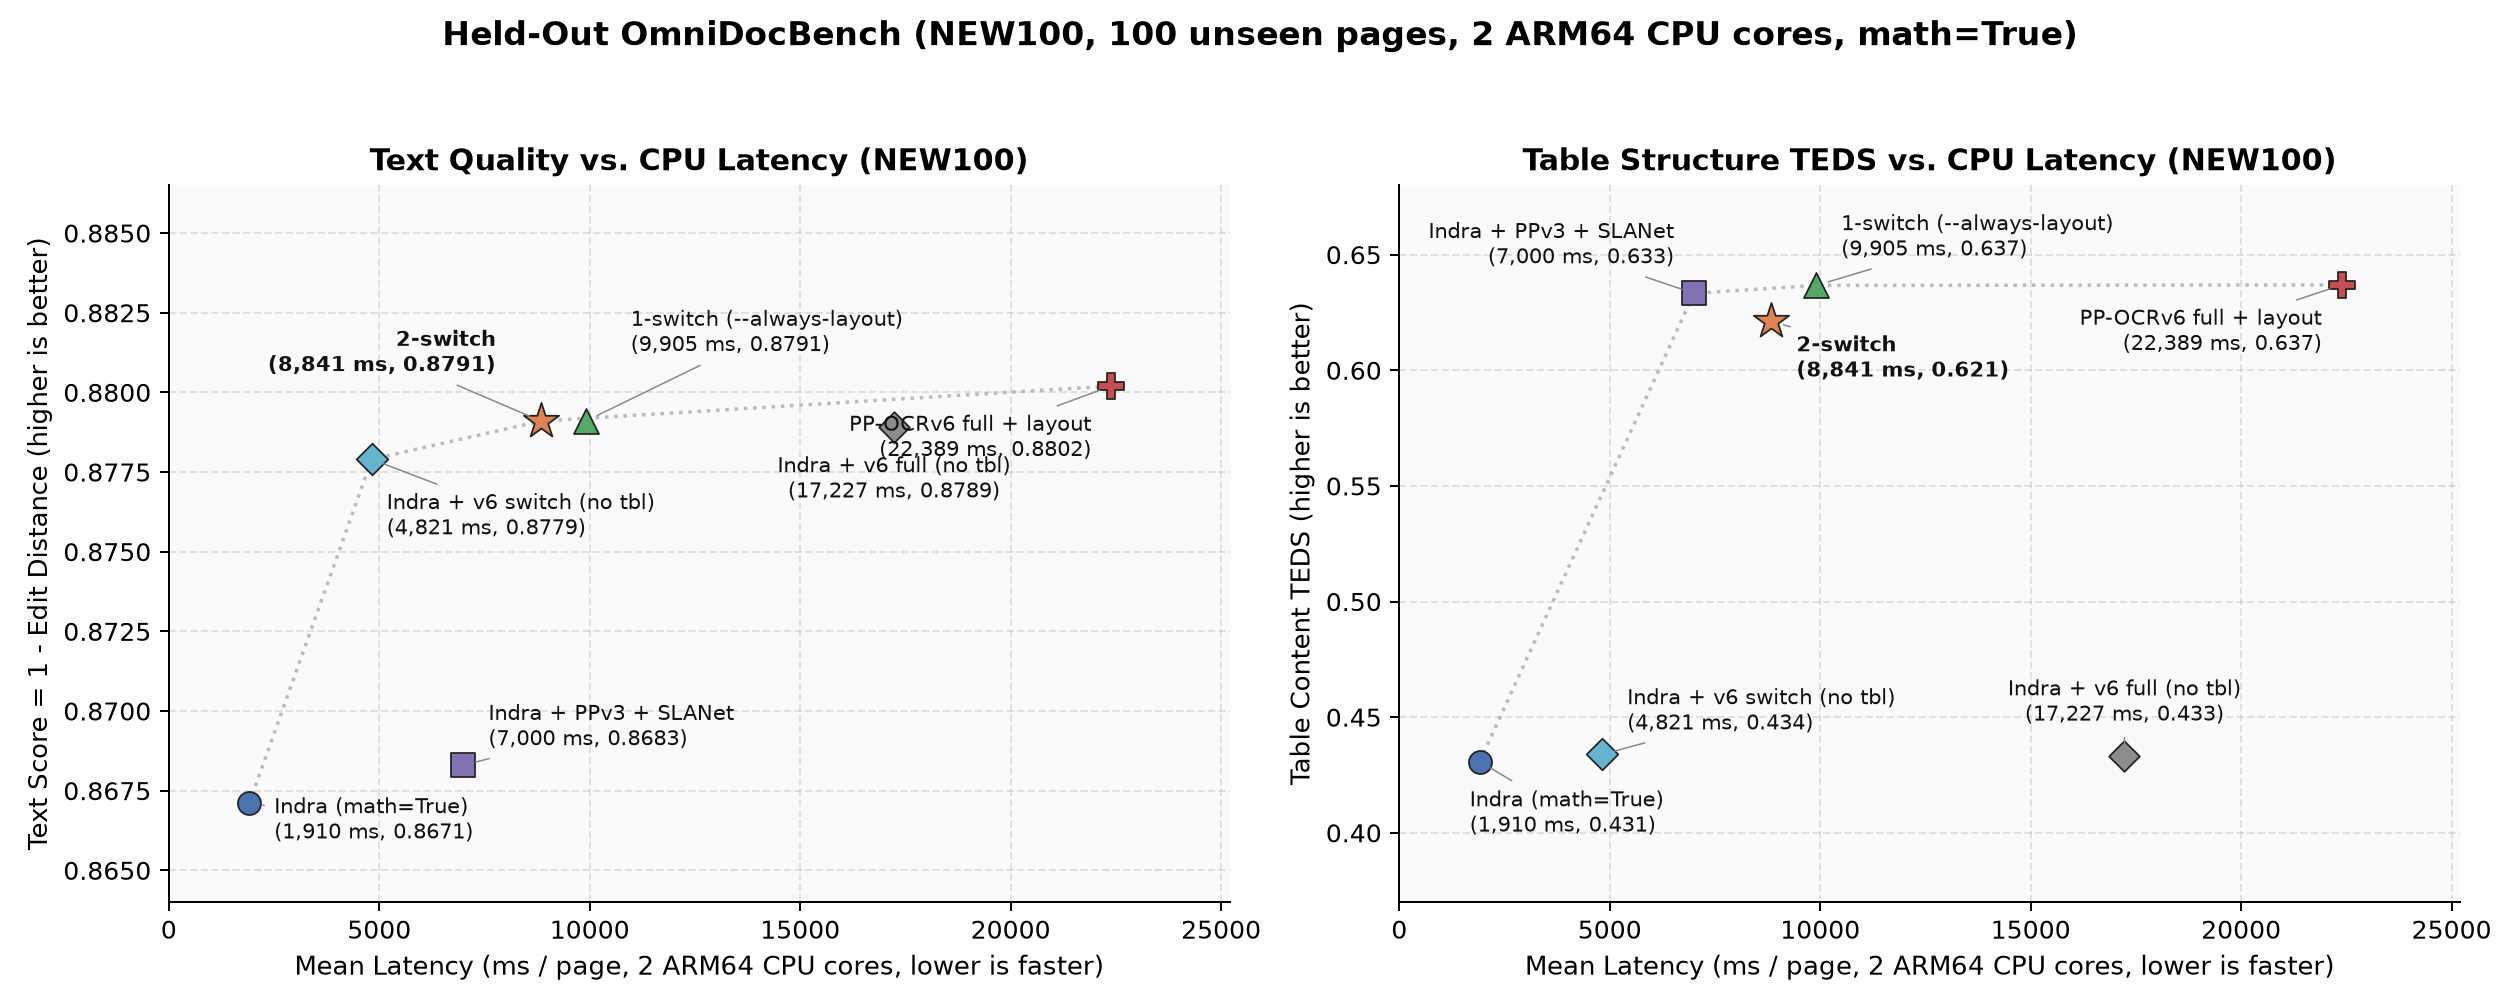
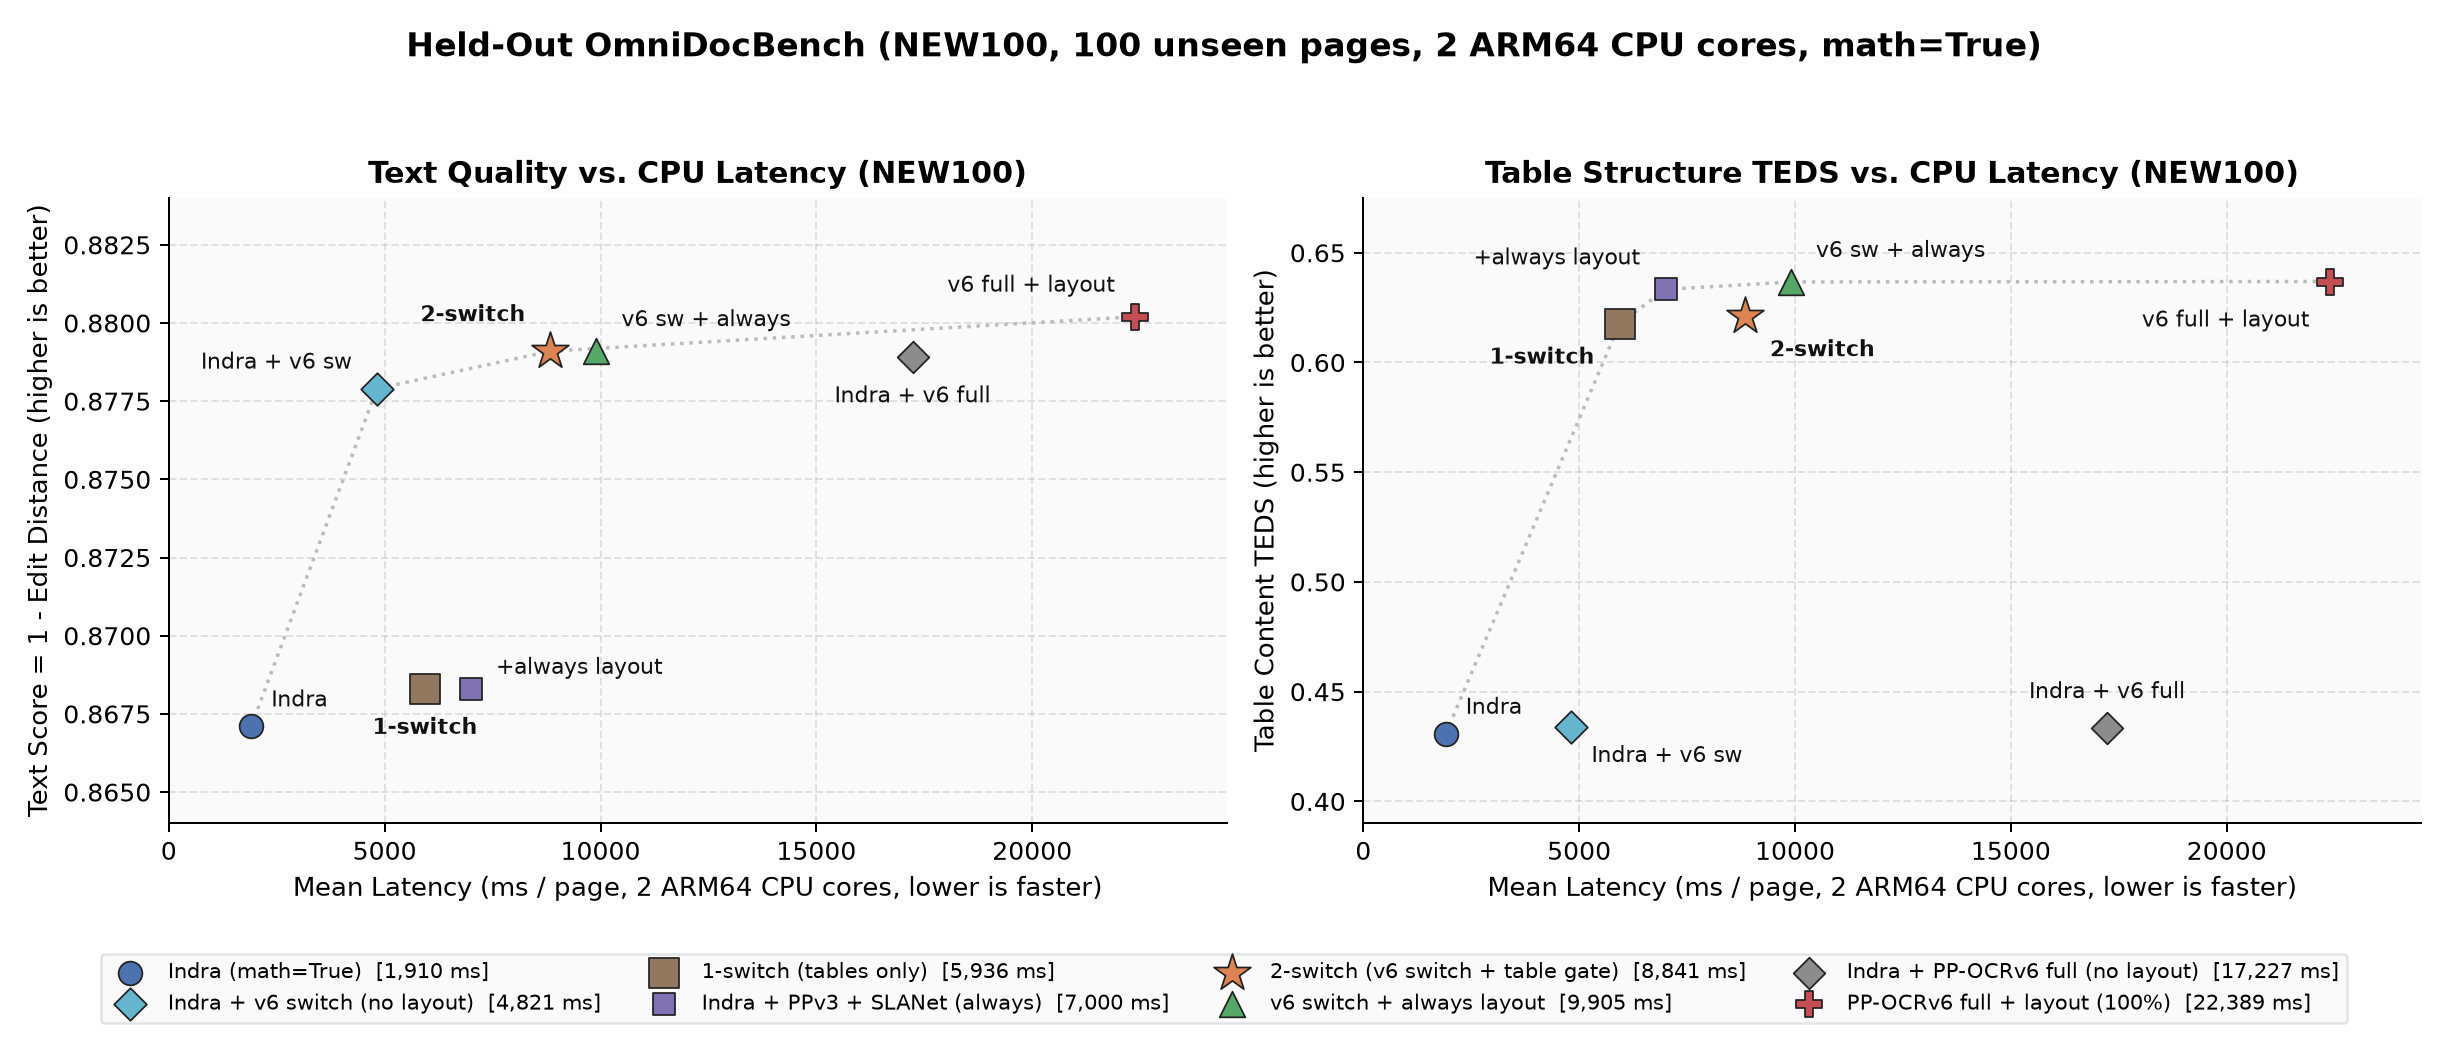
Add 1-switch (table-only gate) default for indra-pp and clean Pareto chart

diff --git a/src/toaster_ocr/pipeline.py b/src/toaster_ocr/pipeline.py
@@ -140,8 +140,8 @@ class ToasterOCR:
             raise ValueError(f"Unknown mode {mode!r}; expected one of {MODES}")
         use_ppv6 = mode in ("pp-v6", "pp-v6-full")
         thr = 1.0 if mode == "pp-v6-full" else (DEFAULT_PPV6_CONF_THRESHOLD if ppv6_threshold is None else float(ppv6_threshold))
-        # Default: pp-v6 gates PPv3+SLANet on Indra seeing a Table; indra-pp & pp-v6-full always run layout.
-        gate_tables = (mode == "pp-v6") if table_gate is None else bool(table_gate)
+        # Default: both indra-pp (table-switch) and pp-v6 (2-switch) gate PPv3+SLANet on Indra seeing a Table.
+        gate_tables = (mode in ("indra-pp", "pp-v6")) if table_gate is None else bool(table_gate)
 
         with self.lock, tempfile.TemporaryDirectory(prefix="toaster-ocr-") as td:
             t0 = time.monotonic()

diff --git a/tests/test_cascade.py b/tests/test_cascade.py
@@ -62,6 +62,9 @@ class TestConfidenceCascade(unittest.TestCase):
             res = ocr.run_image(p, mode="pp-v6")
             self.assertTrue(res["table_layout_skipped"])
             self.assertEqual(calls, {"ppv3": 0, "slanet": 0})
+            res_ipp = ocr.run_image(p, mode="indra-pp")
+            self.assertTrue(res_ipp["table_layout_skipped"])
+            self.assertEqual(calls, {"ppv3": 0, "slanet": 0})
             res_always = ocr.run_image(p, mode="pp-v6", table_gate=False)
             self.assertFalse(res_always["table_layout_skipped"])
             self.assertEqual(calls["ppv3"], 1)

diff --git a/README.md b/README.md
@@ -2,10 +2,12 @@
 
 Fast, CPU-only document OCR for low-power hardware (no GPU, no large VLM).
 
-`toaster-ocr` chains four small specialist models together using a **two-switch cascade**: run fast Indra first (~1.9 s/page on 2 ARM64 CPU cores), and only wake up heavier models on the lines and pages that need help:
+`toaster-ocr` chains small specialist models together with two simple runtime switches so you can pick the speed/accuracy balance you want:
 
-1. **Text switch (`conf <= 0.96`):** Indra already outputs a per-line CTC confidence score at zero extra cost. Easy lines (`conf > 0.96`) keep Indra's text; uncertain non-math/non-RTL lines and table cells get re-read by `PP-OCRv6_small_rec_onnx` (21.2 MB ONNX).
-2. **Table layout switch (`has_indra_table`):** Prose and math pages where Indra detects zero tables skip `PP-DocLayoutV3` (~3.81 s/page) and `SLANet-1M` (~1.14 s/page). Pages with tables run `PP-DocLayoutV3` table regrouping plus `SLANet-1M` table structure repair (+19 to +20 TEDS). Pass `--always-layout` if you want `PP-DocLayoutV3` on every page regardless.
+1. **`1-switch` (`--mode indra-pp`, fast English & general documents):** Run Indra (`math=True`) first (~1.9 s/page on 2 ARM64 CPU cores), and only run `PP-DocLayoutV3` + `SLANet-1M` on pages where Indra detects a table. Prose/math pages stay fast (~1.9 s), while table pages get full HTML structure repair (+19 TEDS).
+2. **`2-switch` (`--mode pp-v6`, Chinese & dense mixed documents):** Same table layout switch **plus** a line-confidence switch (`conf <= 0.96`). Easy lines keep Indra; uncertain non-math/non-RTL lines and table cells get re-read by `PP-OCRv6_small_rec_onnx` (21.2 MB ONNX), cutting Chinese text edit distance by ~1.9 percentage points without paying brute-force cost on every line.
+
+Pass `--always-layout` on either mode if you want `PP-DocLayoutV3` on every page regardless.
 
 ![Text quality and table TEDS vs CPU latency on NEW100](benchmarks/pareto.png)
 
@@ -35,13 +37,18 @@ Measured on CPUs `0,1` (`taskset -c 0,1 nice -n 10`, 2 intra-op threads, serial 
 |---|---:|---:|---:|---:|---:|---:|---:|---:|
 | **`indra`** (`math=True`) | `0.0%` | `0%` | **1.91 s** (`1.63 s`) | `0.1329` | `0.1700` | `0.2978` | `0.4308` | `0.7498` |
 | **`indra + v6 switch`** (no layout/SLANet) | `17.79%` | `0%` | **4.82 s** (`3.76 s`) | `0.1221` | `0.1659` | `0.2975` | `0.4339` | `0.7311` |
-| **`indra-pp`** (`+ PPv3 + SLANet`) | `0.0%` | `100%` | **7.00 s** (`6.43 s`) | `0.1317` | `0.1687` | `0.2722` | `0.6333` | `0.7469` |
-| **`2-switch`** (`conf <= 0.96` + table gate) | **17.79%** | **72%** | **8.84 s** (`7.94 s`) | **`0.1209`** | **`0.1645`** | **`0.2716`** | **`0.6211`** | **`0.7311`** |
-| **`1-switch`** (`--always-layout`) | **17.79%** | `100%` | **9.91 s** (`8.38 s`) | **`0.1209`** | **`0.1645`** | **`0.2716`** | **`0.6367`** | **`0.7311`** |
+| **`1-switch`** (`indra-pp`, tables only) | `0.0%` | **72%** | **5.94 s** (`6.24 s`) | `0.1317` | `0.1687` | `0.2722` | **`0.6177`** | `0.7469` |
+| **`indra-pp --always-layout`** | `0.0%` | `100%` | **7.00 s** (`6.43 s`) | `0.1317` | `0.1687` | `0.2722` | `0.6333` | `0.7469` |
+| **`2-switch`** (`pp-v6`, `conf<=0.96` + table gate) | **17.79%** | **72%** | **8.84 s** (`7.94 s`) | **`0.1209`** | **`0.1645`** | **`0.2716`** | **`0.6211`** | **`0.7311`** |
+| **`v6 switch + always layout`** (`pp-v6 --always-layout`) | **17.79%** | `100%` | **9.91 s** (`8.38 s`) | **`0.1209`** | **`0.1645`** | **`0.2716`** | **`0.6367`** | **`0.7311`** |
 | **`indra + v6 full`** (no layout/SLANet) | `99.97%` | `0%` | **17.23 s** (`14.45 s`) | `0.1211` | `0.1659` | `0.2980` | `0.4334` | `0.7311` |
 | **`pp-v6-full`** (`100%` `PP-OCRv6` + layout) | `99.97%` | `100%` | **22.39 s** (`19.37 s`) | `0.1198` | `0.1644` | `0.2726` | `0.6369` | `0.7311` |
 
-*(Note: `NEW100` was deliberately oversampled to 60% table pages, so 72/100 pages still trigger `PPv3 + SLANet`. On the 28 skipped pages, `PP-DocLayoutV3` caught 2 edge-case tables: a tiny 2x2 exam stamp box and a formula-heavy uncertainty table. Skipping them explains `0.6211` vs `0.6367` TEDS with `0.0000` change in text, order, or math.)*
+#### English vs. Simplified Chinese breakdown (`NEW100` Text ED, lower is better)
+- **English (`n = 43`):** `1-switch` (`0.1349`) vs `2-switch` (`0.1332`), only `-0.0017` difference. For English-only documents, `1-switch` is ~2.9 s/page faster on `NEW100` (~4.0 s/page faster on `OLM24`) with nearly identical text quality.
+- **Simplified Chinese (`n = 48`):** `1-switch` (`0.1287`) vs `2-switch` (`0.1098`), `-0.0189` (1.89 percentage points better). That is where `PP-OCRv6` earns its time.
+
+*(Note: `NEW100` was deliberately oversampled to 60% table pages, so 72/100 pages still trigger `PPv3 + SLANet`. On the 28 skipped pages, `PP-DocLayoutV3` caught 2 edge-case tables: a tiny 2x2 exam stamp box and a formula-heavy uncertainty table. Skipping them explains `0.6177` vs `0.6333` / `0.6211` vs `0.6367` TEDS with `0.0000` change in text, order, or math.)*
 
 ### 2. olmOCR-bench Stratified Pilot (`OLM24`: 24 pages, 188 official unit tests)
 
@@ -50,12 +57,13 @@ Measured on CPUs `0,1` (`taskset -c 0,1 nice -n 10`, 2 intra-op threads, serial 
 | Configuration | Escalated lines | Layout run on | Mean / page (median) | Overall pass rate (higher is better) | `long_tiny_text` | `multi_column` | `table_tests` | `headers_footers` | `arxiv_math` | `old_scans` | `old_scans_math` |
 |---|---:|---:|---:|---:|---:|---:|---:|---:|---:|---:|---:|
 | **`indra`** | `0%` | `0%` | `2.25 s` (`1.70 s`) | `34.57%` (`65/188`) | `88.9%` | `84.6%` | `72.0%` | `31.3%` | `20.8%` | `4.2%` | `1.7%` |
-| **`indra-pp`** | `0%` | `100%` | `6.68 s` (`5.95 s`) | **`35.64%`** (`67/188`) | `88.9%` | **`92.3%`** | **`76.0%`** | `31.3%` | `20.8%` | `4.2%` | `1.7%` |
-| **`2-switch`** (`pp-v6`) | **31.67%** | **37.5%** | **8.12 s** (**`5.69 s`**) | **`35.11%`** (`66/188`) | **`92.6%`** | **`92.3%`** | **`76.0%`** | `25.0%` | `20.8%` | `0.0%` | `1.7%` |
-| **`1-switch`** (`--always-layout`) | **31.67%** | `100%` | `10.67 s` (`7.77 s`) | **`35.11%`** (`66/188`) | **`92.6%`** | **`92.3%`** | **`76.0%`** | `25.0%` | `20.8%` | `0.0%` | `1.7%` |
+| **`1-switch`** (`indra-pp`, tables only) | `0%` | **37.5%** | **4.12 s** (**`3.31 s`**) | **`35.64%`** (`67/188`) | `88.9%` | **`92.3%`** | **`76.0%`** | `31.3%` | `20.8%` | `4.2%` | `1.7%` |
+| **`indra-pp --always-layout`** | `0%` | `100%` | `6.68 s` (`5.95 s`) | **`35.64%`** (`67/188`) | `88.9%` | **`92.3%`** | **`76.0%`** | `31.3%` | `20.8%` | `4.2%` | `1.7%` |
+| **`2-switch`** (`pp-v6`) | **31.67%** | **37.5%** | `8.12 s` (`5.69 s`) | **`35.11%`** (`66/188`) | **`92.6%`** | **`92.3%`** | **`76.0%`** | `25.0%` | `20.8%` | `0.0%` | `1.7%` |
+| **`v6 switch + always layout`** | **31.67%** | `100%` | `10.67 s` (`7.77 s`) | **`35.11%`** (`66/188`) | **`92.6%`** | **`92.3%`** | **`76.0%`** | `25.0%` | `20.8%` | `0.0%` | `1.7%` |
 | **`pp-v6-full`** (`100%`) | `100.0%` | `100%` | `20.23 s` (`16.40 s`) | **`35.11%`** (`66/188`) | `88.9%` | **`92.3%`** | **`76.0%`** | `31.3%` | `20.8%` | `0.0%` | `1.7%` |
 
-- On `OLM24` (where 62.5% of pages are non-table prose, math, or scans), **`2-switch`** skips `PPv3 + SLANet` on `15/24` pages with **0 missed tables (`66/188 == 66/188`)**, cutting median latency from **`16.40 s` (`pp-v6-full`) to `5.69 s`** (**2.88x faster median**, faster than `indra-pp` as well).
+- On `OLM24` (where 62.5% of pages are non-table prose, math, or scans), **`1-switch`** reaches the highest score (**`35.64%`**, 0 missed tables) at **`4.12 s` mean (`3.31 s` median)**: **2.56 s/page faster** than always running layout, and **4.9x faster** than `pp-v6-full` (`20.23 s`).
 - *Per-stage breakdown across all 124 pages:* `PP-DocLayoutV3` ~3.81 s/page mean, `SLANet` ~1.14 s/page mean (~0.97 s median on table pages), `PP-OCRv6` stage `2.70 s` vs `15.24 s` on `NEW100` (**5.65x faster**).
 
 ---
@@ -80,10 +88,13 @@ toaster-ocr download
 
 ### 3. Run OCR on an image
 ```bash
-# 2-switch mode (conf<=0.96 PP-OCRv6 + table-gated PPv3/SLANet)
+# 1-switch mode: fast English/general OCR (table-gated PPv3 + SLANet, no PP-OCRv6)
+toaster-ocr run page.png --mode indra-pp
+
+# 2-switch mode: add conf<=0.96 PP-OCRv6 escalation (recommended for Chinese/mixed docs)
 toaster-ocr run page.png --mode pp-v6
 
-# Also run PP-DocLayoutV3+SLANet on every page even if Indra sees no Table
+# Also run PP-DocLayoutV3 + SLANet on every page even if Indra sees no Table
 toaster-ocr run page.png --mode pp-v6 --always-layout
 
 # Fast native Indra only (~1.9s/page)
